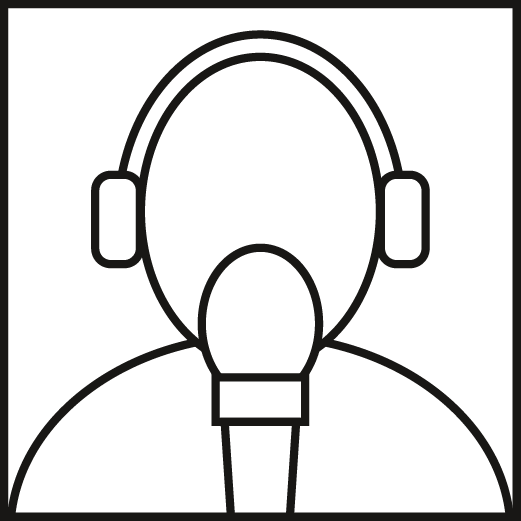
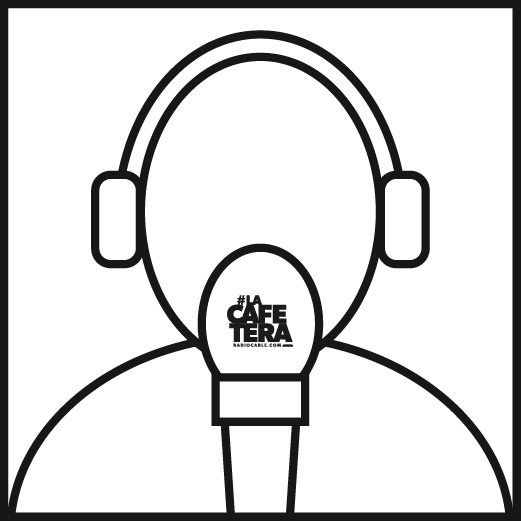
Nuevos iconos en nuevas secciones y mejoras de otros

Changed region(s): [[0.4299, 0.5528, 0.5835, 0.6756]]

diff --git a/src/pages/lista-Puntos-Cap/lista-Puntos-Cap.ts b/src/pages/lista-Puntos-Cap/lista-Puntos-Cap.ts
@@ -29,7 +29,7 @@ export class listaPuntosCap {
                 else if (element.title.toUpperCase().includes('SOBREMESA')){
                     element.image_original_url = 'assets/images/SOBREMESA.png'
                 }
-                else if (element.title.toUpperCase().includes('PRENSA INTERNACIONAL')){
+                else if (element.title.toUpperCase().includes('INTERNACIONAL')){
                     element.image_original_url = 'assets/images/PRENSA_INTERNACIONAL.png'
                 }
                 else if (element.title.toUpperCase().includes('VIDEOFORUM')){
@@ -38,20 +38,26 @@ export class listaPuntosCap {
                 else if (element.title.toUpperCase().includes('CIENCIA')){
                     element.image_original_url = 'assets/images/CIENCIA.png'
                 }
-                else if (element.title.toUpperCase().includes('ECOLOGÍA')){
+                else if (element.title.toUpperCase().includes('ECOLOGÍA') || element.title.toUpperCase().includes('URALDE')){
                     element.image_original_url = 'assets/images/ECOLOGIA.png'
                 }
-                else if (element.title.toUpperCase().includes('MEMORIA HISTÓRICA')){
+                else if (element.title.toUpperCase().includes('MEMORIA HISTÓRICA') || element.title.toUpperCase().includes('EMILIO SILVA')){
                     element.image_original_url = 'assets/images/MEMORIA_HISTORICA.png'
                 }
                 else if (element.title.toUpperCase().includes('PLATA O PLOMO')){
                     element.image_original_url = 'assets/images/PLATA_O_PLOMO.png'
                 }
-                else if (element.title.toUpperCase().includes('INICIO')){
+                else if (element.title.toUpperCase().includes('INICIO') || element.title.toUpperCase().includes('RESUMEN')){
                     element.image_original_url = 'assets/images/INICIO.png'
                 }
-                else if (element.title.toUpperCase().includes('ANÁLISIS DE ACTUALIDAD')){
+                else if (element.title.toUpperCase().includes('ANÁLISIS DE ACTUALIDAD') || element.title.toUpperCase().includes('ANÁLISIS ACTUALIDAD')) {
                     element.image_original_url = 'assets/images/ANALISIS_DE_ACTUALIDAD.png'
+                }
+                else if (element.title.toUpperCase().includes('FEMINISMO')){
+                    element.image_original_url = 'assets/images/FEMINISMO.png'
+                }
+                else if (element.title.toUpperCase().includes('CARNE CRUDA') || element.title.toUpperCase().includes('JAVIER GALLEGO')) {
+                    element.image_original_url = 'assets/images/CARNE_CRUDA.png'
                 }
                 else {
                     element.image_original_url = 'assets/images/GENERICO.png'
